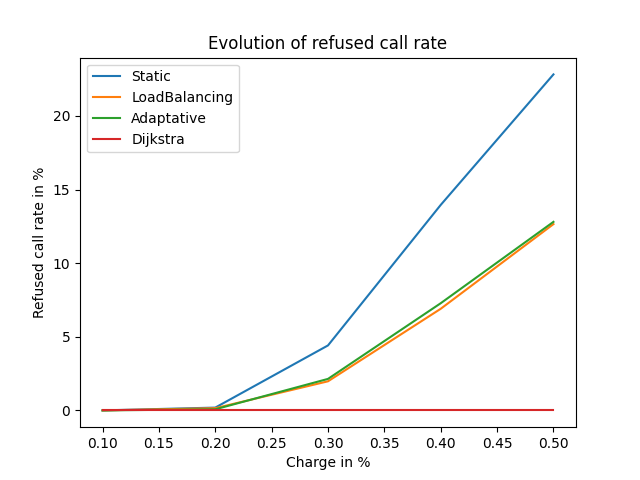
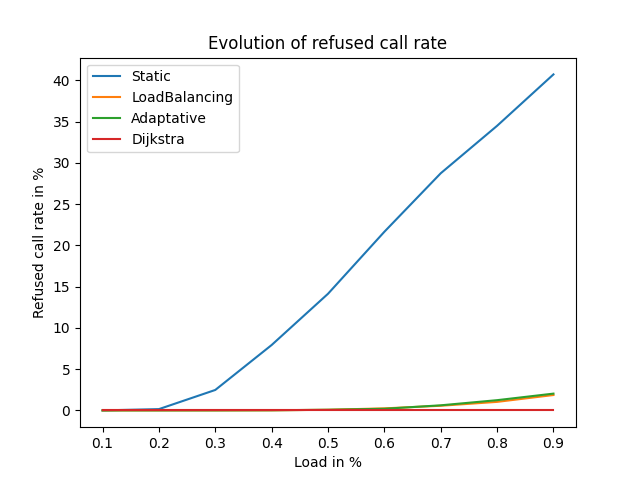
fix reseau + strategies adaptatives et partage charge

diff --git a/Commutateur.py b/Commutateur.py
@@ -35,7 +35,7 @@ N : taille des adresses (de la forme @ : A.B.C)
 A, B en communs -> dans la zone "3" (ie proche)
 """
 CTS_count = 3
-CA_count = 6
+CA_count = 4
 nbCommutateurs = CTS_count+CA_count
 # Initialise la matrice des communications
 traffic_state = np.zeros((nbCommutateurs, nbCommutateurs))
@@ -112,6 +112,17 @@ class Commutateur:
             i += 1
         return i
 
+    def _getNeighbour(self, adressesAccessibles, adresseDestination):
+        voisin_proche = list()
+        resultats_i = list()
+        adressesAccessibles = [self.adresse]+list(self.voisins.keys())
+        for voisin in adressesAccessibles:
+            # Sert si aucun voisin dans la zone de destination, pour se rapprocher de la zone
+            voisin_proche.append(abs(voisin[0]-adresseDestination[0]))
+            # On ajoute la "distance" entre l'@ du voisin et l'@ dest
+            resultats_i.append(self._getZone(adresseDestination, voisin))
+        return resultats_i, voisin_proche
+
     def _giveNextHop( self, adNextCommutateur : tuple
                     , adresseSource : tuple , adresseDestination : tuple):
         """Renvoi le résultat de l'appel : (appelOK, trace des commutateurs)"""
@@ -145,29 +156,24 @@ class Commutateur:
         printv(f"Demande de communication sur le commutateur :\
                  {self.adresse} de {adresseSource} vers {adresseDestination}", verbose)
         # Recherche du voisin : on compare les @ pour avoir celle la plus "proche" de l'@ dest
-        resulats_i = list()
-        voisin_proche = list()
         adressesAccessibles = [self.adresse]+list(self.voisins.keys())
         printv(f"Adresses acecessibles : {adressesAccessibles}", verbose)
-        for voisin in adressesAccessibles:            
-            # Sert si aucun voisin dans la zone de destination, pour se rapprocher de la zone
-            voisin_proche.append(abs(voisin[0]-adresseDestination[0]))
-            # On ajoute la "distance" entre l'@ du voisin et l'@ dest
-            resulats_i.append(self._getZone(adresseDestination, voisin))
+        resultats_i, voisin_proche = self._getNeighbour(adressesAccessibles, adresseDestination)
 
-        if max(resulats_i) == 0:
-            j = voisin_proche.index(min(voisin_proche))
+        if resultats_i[0] == (N-1):
+            i = 0
+        elif max(resultats_i) == resultats_i[0]:
+            i = voisin_proche.index(min(voisin_proche))
             # On a pas de voisin qui a une zone en commun avec l'@ dest, on s'en rapproche
-            adNextCommutateur = adressesAccessibles[j]
         else:
-            i = resulats_i.index(max(resulats_i))
-            adNextCommutateur = adressesAccessibles[i]
-            if adNextCommutateur == self.adresse and resulats_i[0] < N-1:
-                printv(f"@ commutateur : {self.adresse} | @ destination : {adresseDestination}", verbose)
-                # Cas où on "maximise" la distance mais on est pas en liaison directe
-                # -> on ne peut pas trouver de route (avec notre topologie ! sinon avec 1 étage de plus tout change)
-                # Ne peut arriver qu'en cas de panne
-                return (False, [])
+            i = resultats_i.index(max(resultats_i))
+        adNextCommutateur = adressesAccessibles[i]
+        if adNextCommutateur == self.adresse and resultats_i[0] < N-1:
+            printv(f"@ commutateur : {self.adresse} | @ destination : {adresseDestination}", verbose)
+            # Cas où on "maximise" la distance mais on est pas en liaison directe
+            # -> on ne peut pas trouver de route (avec notre topologie ! sinon avec 1 étage de plus tout change)
+            # Ne peut arriver qu'en cas de panne
+            return (False, [])
 
         printv(f"Prochain Saut de {self.adresse} vers {adNextCommutateur}\n \
                  voisin choisi : {self.voisins} ", verbose)
@@ -182,20 +188,23 @@ class Commutateur:
                  {self.adresse} de {adresseSource} vers {adresseDestination}", verbose)
         # Soit on est en liaison directe, soit on envoi à la couche supérieure ou la même couche de manière random
         # Recherche des voisin possibles : on compare les @ pour se "raprocher" de l'@ dest
-        resulats_i = list()
         adressesAccessibles : List[tuple] = [self.adresse]+list(self.voisins.keys())
         printv(f"Liste des adresses accessibles : {adressesAccessibles}", verbose)
-        for voisin in adressesAccessibles:
-            # On ajoute la "distance" entre l'@ du voisin et l'@ dest
-            resulats_i.append(self._getZone(adresseDestination, voisin))    
+        resultats_i, voisin_proche = self._getNeighbour(adressesAccessibles, adresseDestination)
 
-        if resulats_i[0] == (N-1):
+        if resultats_i[0] == (N-1):
             adNextCommutateur = self.adresse
         else:
             # "Distance" entre le commutateur self et la destination
-            d = resulats_i[0]
-            # Indices des voisins nous rapprochant de la destination
-            indexes_possibles = [index for index in range(len(resulats_i)) if resulats_i[index]>d]
+            d = resultats_i[0]
+            if max(resultats_i) == d:
+                j = voisin_proche.index(min(voisin_proche))
+                # On liste les voisins qui nous rapprochent
+                indexes_possibles = [index for index in range(1,len(voisin_proche)) if voisin_proche[index]==voisin_proche[j]]
+            else:
+                # Indices des voisins nous rapprochant de la destination
+                indexes_possibles = [index for index in range(len(resultats_i)) if resultats_i[index]>d]
+            printv(f"Nombres de commutateurs qui nous rapproche de la destination : {len(indexes_possibles)}", verbose)
             if len(indexes_possibles) == 0:
                 return (False, [])
             # Adresses des voisins nous rapprochant de la destination
@@ -215,19 +224,21 @@ class Commutateur:
         """Partage équitablement en fonction de la capacité restante des liens"""
         # Soit on est en liaison directe, soit on envoi à la couche supérieure ou la même couche de manière random
         # Recherche des voisin possibles : on compare les @ pour se "raprocher" de l'@ dest
-        resulats_i = list()
         adressesAccessibles = [self.adresse]+list(self.voisins.keys())
-        for voisin in adressesAccessibles:
-            # On ajoute la "distance" entre l'@ du voisin et l'@ dest
-            resulats_i.append(self._getZone(adresseDestination, voisin))
+        resultats_i, voisin_proche = self._getNeighbour(adressesAccessibles, adresseDestination)
 
-        if resulats_i[0] == (N-1):
+        if resultats_i[0] == (N-1):
             adNextCommutateur = self.adresse
         else:
             # "Distance" entre le commutateur self et la destination
-            d = resulats_i[0]
-            # Indices des voisins nous rapprochant de la destination
-            indexes_possibles = [index for index in range(len(resulats_i)) if resulats_i[index]>d]
+            d = resultats_i[0]
+            if max(resultats_i) == d:
+                j = voisin_proche.index(min(voisin_proche))
+                # On liste les voisins qui nous rapprochent
+                indexes_possibles = [index for index in range(1,len(voisin_proche)) if voisin_proche[index]==voisin_proche[j]]
+            else:
+                # Indices des voisins nous rapprochant de la destination
+                indexes_possibles = [index for index in range(len(resultats_i)) if resultats_i[index]>d]
             if len(indexes_possibles) == 0:
                 return (False, [])
             # Adresses des voisins nous rapprochant de la destination

diff --git a/main.py b/main.py
@@ -1,7 +1,7 @@
 import argparse
 import random
 from statistics import mean
-from Commutateur import Commutateur, Strategie, printv, CTS_count, CA_count, printStrategy
+from Commutateur import Commutateur, Strategie, printv, CTS_count, CA_count, printStrategy, traffic_state
 from User import User
 from typing import List
 import matplotlib.pyplot as plt
@@ -32,9 +32,9 @@ def getChargeRefus(users, nbRefusInitial):
         resultats = (list(), list(), list())
 
         # Pour une charge réseau de 10% à 90%, par pas de 10%, on mesure le taux t'appels refusés
-        for i in range(1,6):
+        for i in range(1,10):
             print(f"Charge du réseau : {i*10}%" )
-            charge_reseau_max = i * users_count // 10
+            charge_reseau_max = i * (users_count // 10 if users_count >= 10 else 1)
 
             liste_clients_appelants : List[User] = list()
 
@@ -107,6 +107,7 @@ if __name__ == "__main__":
     isVerbose = bool(args.get('verbose'))
     arg_nc = args.get('nc')
     users_count : int = int(arg_nc) if (arg_nc != None) else 100 # nombre de users par défaut
+    assert(users_count >= 4)
 
     ####### INIT #######
     # capacity of the links
@@ -137,40 +138,35 @@ if __name__ == "__main__":
     #        |                   |                   |                    |
     #    c[0]-c[n/4-1]     c[n/4]-c[n/2-1]      c[n/2]-c[3n/4-1]     c[3n/4]-c[n]
     # CTS : i.0.0 | CA int(i*nbCTS/nbCA).int(nbCTS/nbCA+1).0
-    adresses_CTS = range(1, CTS_count)
-    adresses_CA = range(1, CA_count)
+    adresses_CTS = range(1, CTS_count+1)
+    adresses_CA = range(1, CA_count+1)
 
     liste_CA: list[Commutateur] = list()
     liste_CTS: list[Commutateur] = list()
 
     for i in adresses_CTS:
+        printv((i,0,0), isVerbose)
         liste_CTS.append(Commutateur((i,0,0), chosenStrategy))
 
     for i in adresses_CA:
         # choice: address prefix of a CA is the same as the CTS of same idx. Ex: CA1 and CTS1 have same prefix
-        print((int(i*CTS_count/CA_count+1),round(i+CTS_count/CA_count),0))
-        liste_CA.append(Commutateur((int(i*CTS_count/CA_count+1),round(i+CTS_count/CA_count),0), chosenStrategy))
+        liste_CA.append(Commutateur((int(i*CTS_count/CA_count+(1 if i==1 else 0)),i,0), chosenStrategy))
 
     #liste_CTS.insert(1, liste_CA.pop(-1))
-    liste_CTS.insert(1, liste_CA.pop(-1))
+    #liste_CTS.insert(1, liste_CA.pop(-1))
 
     # Interconnection of the CTS
     # Edge cases: first and last ones are only connected to one of their kind and two of the other kind
     lenCTS = len(liste_CTS)
     lenCA = len(liste_CA)
+
+    # Edge cases
     liste_CTS[0].ajouterVoisins([ (liste_CTS[1], cts_wire)
                                 , (liste_CA[0], cts_ca_wire)
                                 , (liste_CA[1], cts_ca_wire)])
     liste_CTS[-1].ajouterVoisins([(liste_CTS[-2], cts_wire)
                                  , (liste_CA[-1], cts_ca_wire)
                                  , (liste_CA[-2], cts_ca_wire)])
-    for i in range(1, lenCTS -1): # omit first and last
-        liste_CTS[i].ajouterVoisins([ (liste_CTS[(i-1)%lenCTS], cts_wire) # connected to 2 CTS
-                                    , (liste_CTS[(i+1)%lenCTS], cts_wire)
-                                    , (liste_CA[i%lenCA], cts_ca_wire) # connected to 3 CA
-                                    , (liste_CA[(i-1)%lenCA], cts_ca_wire)
-                                    , (liste_CA[(i+1)%lenCA], cts_ca_wire)])
-
     # for CA
     liste_CA[0].ajouterVoisins([ (liste_CA[1], ca_wire)
                                , (liste_CTS[0], cts_ca_wire)
@@ -178,12 +174,44 @@ if __name__ == "__main__":
     liste_CA[-1].ajouterVoisins([ (liste_CA[-2], ca_wire)
                                 , (liste_CTS[-1], cts_ca_wire)
                                 , (liste_CTS[-2], cts_ca_wire)])
+
+    # Connections between CTS
+    for i in range(1, lenCTS -1): # omit first and last
+        liste_CTS[i].ajouterVoisins([ (liste_CTS[i-1], cts_wire) # connected to 2 CTS
+                                    , (liste_CTS[i+1], cts_wire)])
+        #liste_CTS[i].ajouterVoisins([ (liste_CTS[i-1], cts_wire) # connected to 2 CTS
+        #                            , (liste_CTS[i+1], cts_wire)
+        #                            , (liste_CA[i%lenCA], cts_ca_wire) # connected to 3 CA
+        #                            , (liste_CA[(i-1)%lenCA], cts_ca_wire)
+        #                            , (liste_CA[(i+1)%lenCA], cts_ca_wire)])
+
+    # Connection between CAs
     for i in range(1, lenCA -1): # omit first and last
-        liste_CA[i].ajouterVoisins([ (liste_CA[(i-1)%lenCA], ca_wire) # connected to 2 CA
-                                   , (liste_CA[(i+1)%lenCA], ca_wire)
-                                   , (liste_CTS[(i+1)%lenCTS], cts_ca_wire) # connected to 3 CTS
-                                   , (liste_CTS[i%lenCTS], cts_ca_wire)
-                                   , (liste_CTS[(i-1)%lenCTS], cts_ca_wire)])  
+        liste_CA[i].ajouterVoisins([ (liste_CA[i-1], ca_wire) # connected to 2 CA
+                                   , (liste_CA[i+1], ca_wire)])
+        #liste_CA[i].ajouterVoisins([ (liste_CA[i-1], ca_wire) # connected to 2 CA
+        #                           , (liste_CA[i+1], ca_wire)
+        #                           , (liste_CTS[(i+1)%lenCTS], cts_ca_wire) # connected to 3 CTS
+        #                           , (liste_CTS[i%lenCTS], cts_ca_wire)
+        #                           , (liste_CTS[(i-1)%lenCTS], cts_ca_wire)]) 
+    
+    assert (lenCA >= lenCTS)
+    # Cross 'Commutateurs' links
+    for i in range(1, lenCA-1):
+        liste_CA[i].ajouterVoisins([ (liste_CTS[int(i*CTS_count/CA_count+(1 if i==1 else 0))-1], cts_ca_wire)
+                                   , (liste_CTS[int(i*CTS_count/CA_count+(1 if i==1 else 0))], cts_ca_wire)])
+        liste_CTS[int(i*CTS_count/CA_count+(1 if i==1 else 0))-1].ajouterVoisin(liste_CA[i], cts_ca_wire)
+        liste_CTS[int(i*CTS_count/CA_count+(1 if i==1 else 0))].ajouterVoisin(liste_CA[i], cts_ca_wire)
+    
+    if isVerbose:
+        print("-------CTSs-------")
+        for c in liste_CTS:
+            print(f"CTS : {c.adresse}")
+            print(*c.voisins)
+        print("-------CAs-------")
+        for c in liste_CA:
+            print(f"CA : {c.adresse}")
+            print(*c.voisins)
 
     resultats = dict()
 
@@ -194,12 +222,13 @@ if __name__ == "__main__":
         liste_users.append(list())
         for i in range(0, users_per_CA):
             user_adress = tuple(list(c.adresse[0:-1]) + [i+1])
-            print(f"user : {user_adress} - CA : {c.adresse}")
+            printv(f"user : {user_adress} - CA : {c.adresse}", isVerbose)
             liste_users[-1].append(User(c, user_adress))
     printv(liste_users, isVerbose)
     flatten = lambda l: [] if l == [] else l[0] if len(l)==1 else l[0]+flatten(l[1:])
     flattened_list_user : List[User] = flatten(liste_users)
-
+    printv(traffic_state, isVerbose)
+    
     #plots = plt.subplots(1,2)[1]
     plt.figure()
 

diff --git a/rapport/rapport.tex b/rapport/rapport.tex
@@ -174,10 +174,10 @@ The program of our simulation is organized in 4 files :
 \begin{center}
 \includegraphics[width=0.48\textwidth]{call_rate.png}
 % coeff moyenne = 1000
-%cts_wire = 50
-%cts_ca_wire = 25
-%ca_wire = 10
-%100 personnes
+% cts_wire = 50
+% cts_ca_wire = 25
+% cts_wire = 10
+% user_count = 100
 
 \end{center}
 
